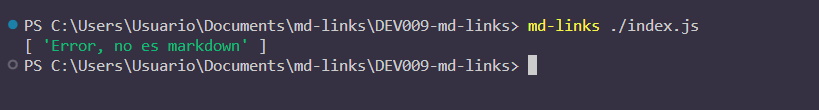
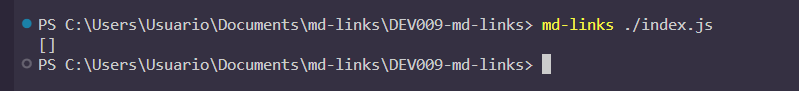
Modificacion readme

Changed region(s): [[0.0, 0.3516, 0.6909, 0.8132], [0.0, 0.1538, 0.9011, 0.3736]]

diff --git a/mdLinks.js b/mdLinks.js
@@ -36,7 +36,7 @@ const mdLinks = (path1, options) => {
     } else {
       //console.info('👎 no es markdown 😠'.red);
       // Devuelve una promesa resuelta con un arreglo vacío si no es un archivo Markdown
-      return Promise.resolve(['Error, no es markdown']); 
+      return Promise.resolve([]); 
     }
   } else if (element.isDirectory()) {
     //console.info('👍 es directorio 😆'.gray);

diff --git a/data.js b/data.js
@@ -78,7 +78,7 @@ const extractMarkdownLinks = (data, absolutePath, validate) => {
         })
         .catch((error) => {
           // Ocurrió un error durante la validación
-          linkInfo.status = 400;
+          linkInfo.status = 404;
           linkInfo.ok = 'fail';
           return linkInfo; // Devolvemos linkInfo con error
         });
